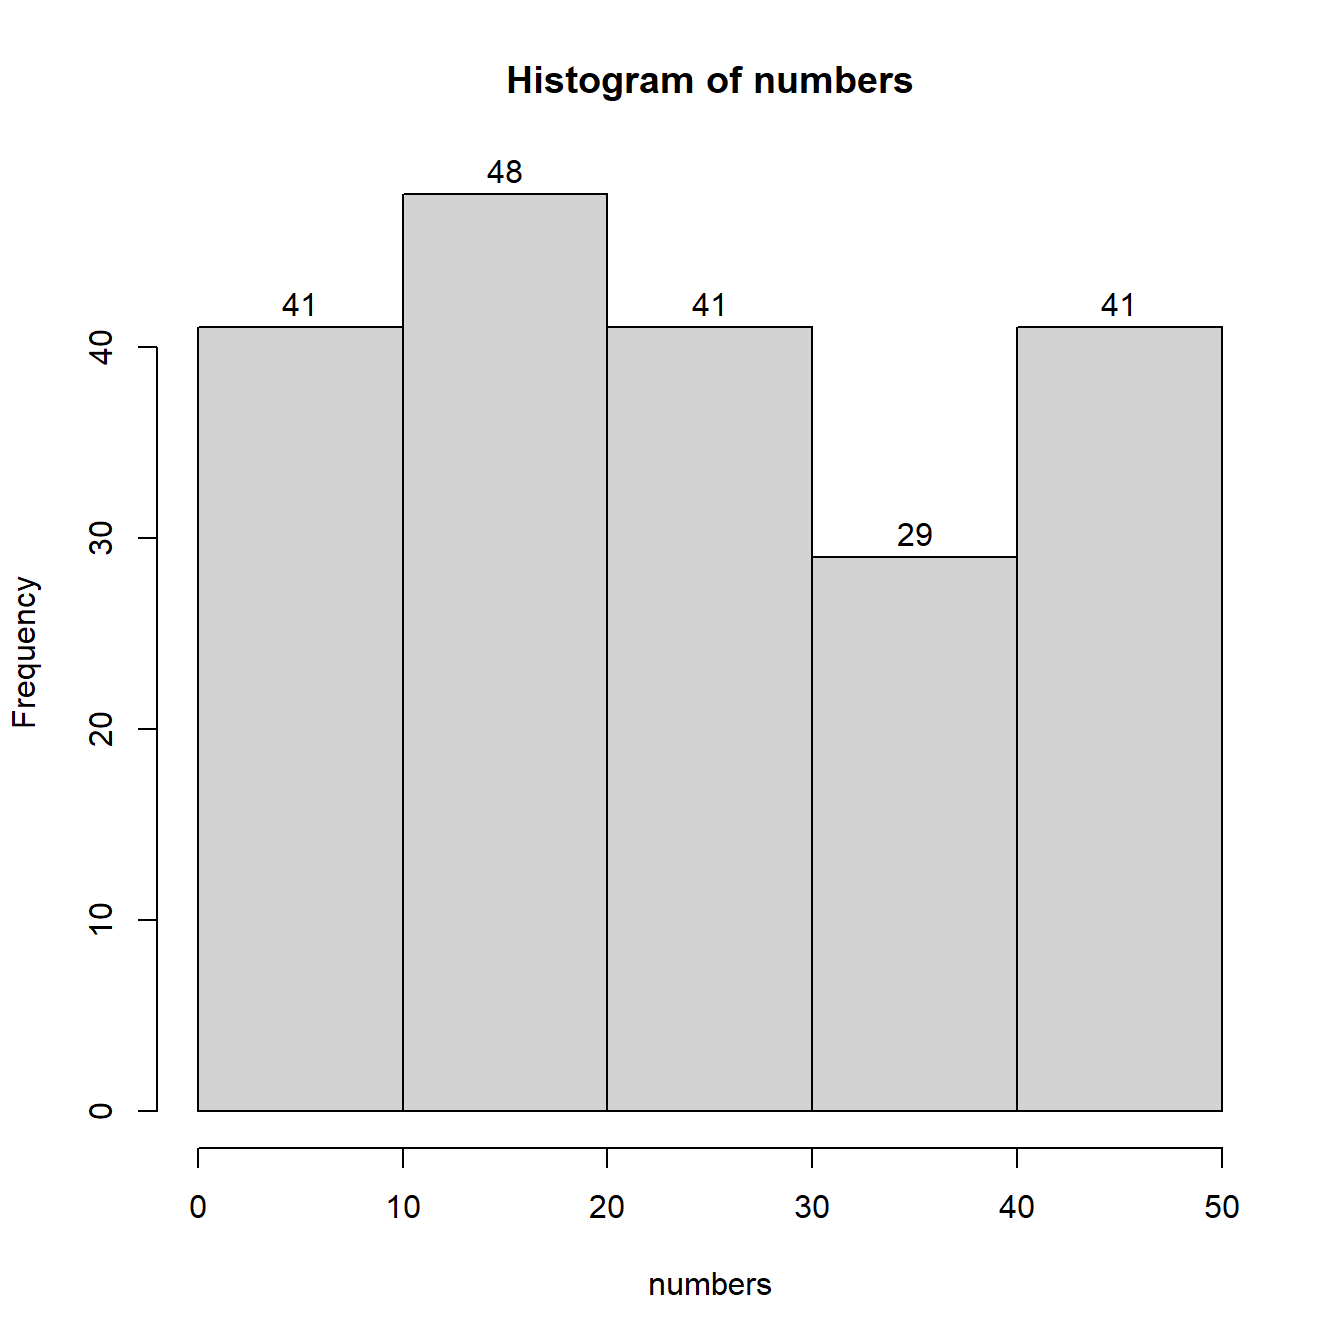
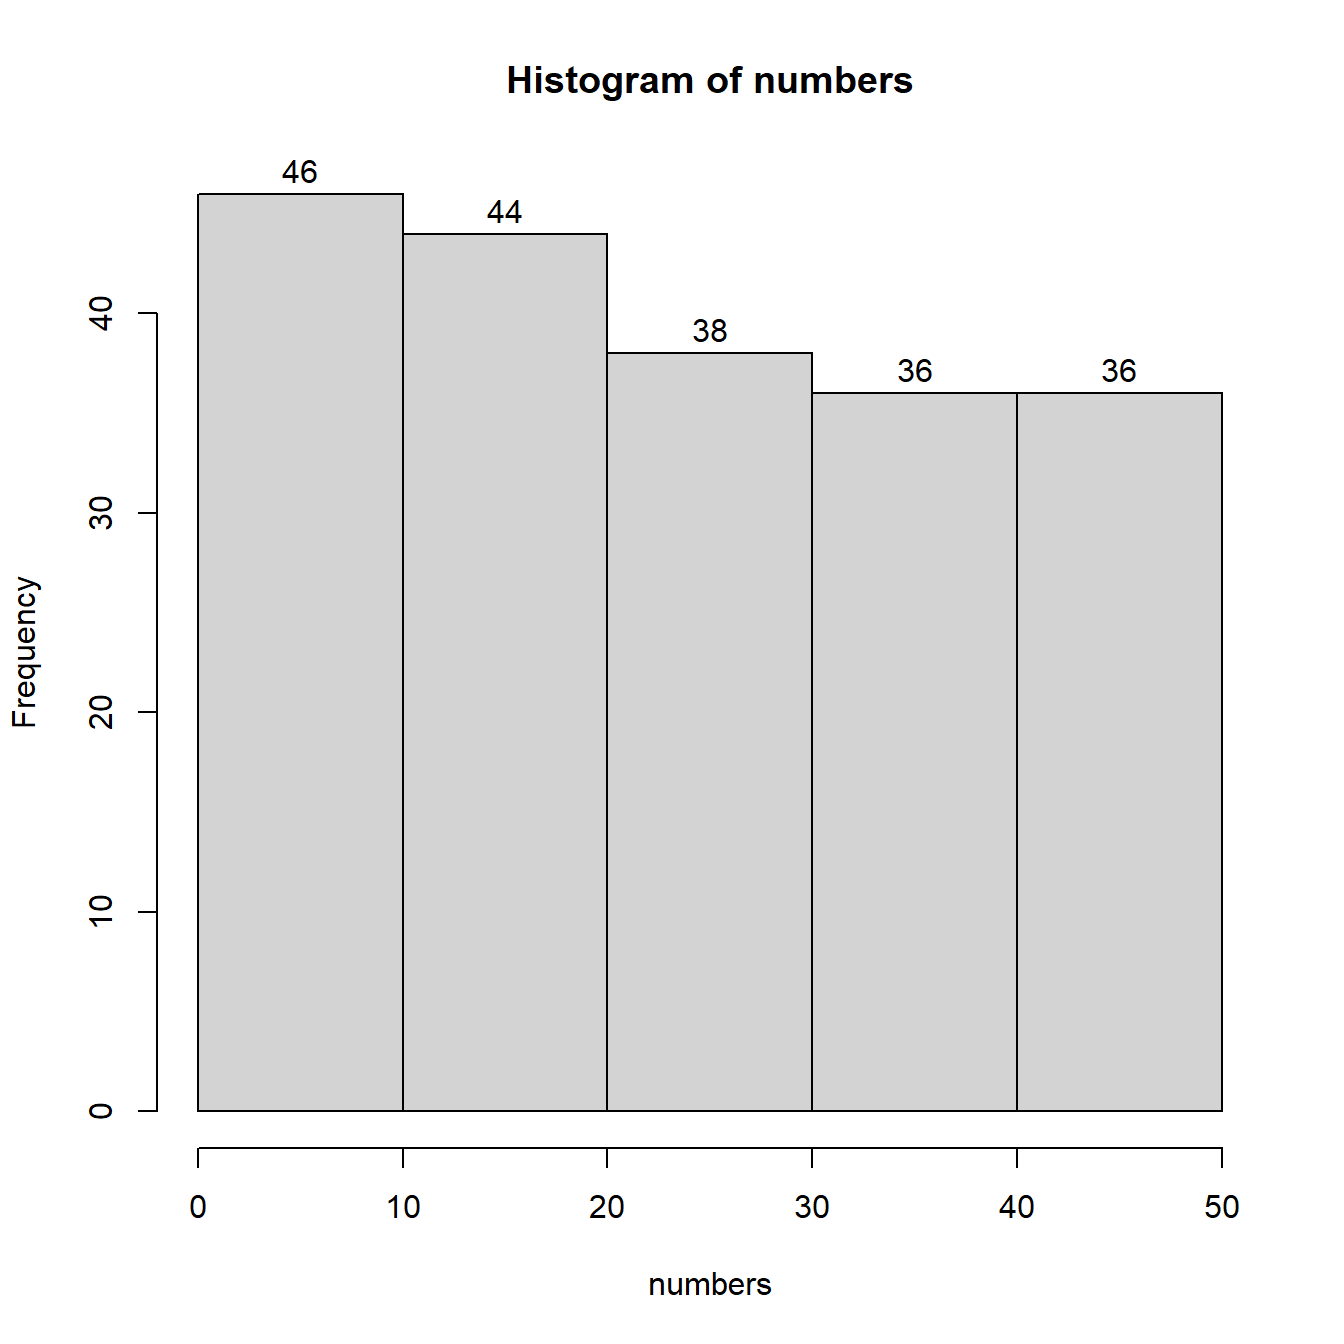
check first three chapters

diff --git a/docs/Week3.html b/docs/Week3.html
@@ -24,7 +24,7 @@
 <meta name="author" content="Lazaros Gonidis" />
 
 
-<meta name="date" content="2020-10-07" />
+<meta name="date" content="2020-10-16" />
 
   <meta name="viewport" content="width=device-width, initial-scale=1" />
   <meta name="apple-mobile-web-app-capable" content="yes" />
@@ -32,7 +32,7 @@
   
   
 <link rel="prev" href="Week2.html"/>
-
+<link rel="next" href="Week4.html"/>
 <script src="libs/header-attrs-2.3/header-attrs.js"></script>
 <script src="libs/jquery-2.2.3/jquery.min.js"></script>
 <link href="libs/gitbook-2.6.7/css/style.css" rel="stylesheet" />
@@ -154,6 +154,10 @@ code span.wa { color: #60a0b0; font-weight: bold; font-style: italic; } /* Warni
 <li class="chapter" data-level="3.4" data-path="Week3.html"><a href="Week3.html#frequency-tables-in-r-and-histograms"><i class="fa fa-check"></i><b>3.4</b> Frequency tables in R and Histograms</a></li>
 <li class="chapter" data-level="3.5" data-path="Week2.html"><a href="Week2.html#exercise"><i class="fa fa-check"></i><b>3.5</b> Exercise</a></li>
 </ul></li>
+<li class="chapter" data-level="4" data-path="Week4.html"><a href="Week4.html"><i class="fa fa-check"></i><b>4</b> Lab Session 3</a>
+<ul>
+<li class="chapter" data-level="4.1" data-path="Week2.html"><a href="Week2.html#learning-objectives"><i class="fa fa-check"></i><b>4.1</b> Learning Objectives</a></li>
+</ul></li>
 <li class="divider"></li>
 <li><a href="https://github.com/rstudio/bookdown" target="blank">Published with bookdown</a></li>
 
@@ -243,7 +247,7 @@ code span.wa { color: #60a0b0; font-weight: bold; font-style: italic; } /* Warni
 <span id="cb7-3"><a href="Week3.html#cb7-3"></a>numbers &lt;-<span class="st"> </span><span class="kw">sample.int</span>(<span class="dv">10</span>, <span class="dv">5</span>, <span class="dt">replace =</span> <span class="ot">TRUE</span>)</span>
 <span id="cb7-4"><a href="Week3.html#cb7-4"></a></span>
 <span id="cb7-5"><a href="Week3.html#cb7-5"></a>numbers</span></code></pre></div>
-<p>[1] 3 10 2 5 9</p>
+<p>[1] 5 10 6 9 1</p>
 <p>As mentioned above, I used a function called <strong>sample.int()</strong>. A <strong>function</strong> in R, is a mechanism that can perform a task. In this case our function can select an integer number randomly. A function also includes two brackets (). Within these brackets we can specify our own arguments in order to be clear what we want R to do for us when this function is used.</p>
 <p>Notice the number 10, this <strong>argument</strong> instructs our function that we want to pick randomly a number between 1 and 10.</p>
 <p>Notice the second number 5, this <strong>argument</strong> instructs our function to give 5 such numbers from 1 to 10.</p>
@@ -257,14 +261,14 @@ code span.wa { color: #60a0b0; font-weight: bold; font-style: italic; } /* Warni
 <span id="cb8-3"><a href="Week3.html#cb8-3"></a><span class="co"># See how my arguments have now changed.</span></span>
 <span id="cb8-4"><a href="Week3.html#cb8-4"></a>numbers &lt;-<span class="st"> </span><span class="kw">sample.int</span>(<span class="dv">50</span>, <span class="dv">200</span>, <span class="dt">replace =</span> <span class="ot">TRUE</span>)</span>
 <span id="cb8-5"><a href="Week3.html#cb8-5"></a>numbers</span></code></pre></div>
-<p>[1] 49 6 42 13 16 9 10 10 50 6 18 13 27 34 26 4 1 34 49 19 25 20 36 45 15
-[26] 46 38 17 11 20 20 7 20 39 44 29 22 47 21 13 17 16 31 33 41 3 30 43 48 39
-[51] 10 37 6 30 19 18 50 40 10 44 25 26 14 43 46 31 41 25 14 6 42 40 16 29 27
-[76] 28 32 13 2 22 30 49 16 26 47 11 3 26 3 28 5 16 18 13 47 35 24 20 28 43
-[101] 30 31 6 38 4 7 40 41 2 15 4 20 24 27 6 34 23 11 47 2 27 23 26 47 27
-[126] 21 43 45 45 13 24 36 13 40 8 47 19 43 11 37 10 4 50 27 28 29 4 36 12 37
-[151] 5 14 18 45 41 49 12 37 45 26 14 7 29 7 44 12 3 27 4 19 47 49 48 27 8
-[176] 41 30 8 32 49 17 41 3 7 35 15 31 17 9 36 14 31 7 17 21 17 16 7 25 5</p>
+<p>[1] 49 43 17 13 37 42 26 29 24 19 34 31 18 38 1 5 9 8 22 45 37 17 10 1 30
+[26] 11 12 11 1 26 28 42 26 12 48 44 17 37 37 9 9 50 20 37 49 15 48 50 43 38
+[51] 49 10 22 6 22 22 14 31 41 2 29 38 31 18 20 22 14 9 6 11 34 39 31 10 31
+[76] 18 36 2 29 9 47 50 11 25 2 21 29 42 15 16 37 8 3 15 33 27 36 29 9 29
+[101] 39 29 26 10 45 5 28 1 47 12 25 37 9 42 34 31 2 25 7 27 16 39 26 9 7
+[126] 50 45 16 16 35 49 15 21 32 2 39 47 42 49 8 4 5 3 14 8 3 4 12 49 9
+[151] 24 20 30 50 17 29 13 19 42 12 33 33 21 32 2 27 16 2 27 32 24 42 48 42 16
+[176] 7 1 13 35 13 13 10 16 37 1 35 18 23 19 19 23 43 31 14 28 4 50 49 41 5</p>
 <div class="sourceCode" id="cb9"><pre class="sourceCode r"><code class="sourceCode r"><span id="cb9-1"><a href="Week3.html#cb9-1"></a><span class="co"># Now we will call a new function to help us group our data.</span></span>
 <span id="cb9-2"><a href="Week3.html#cb9-2"></a><span class="co"># First put them in 5 groups. The numbers in c() declare the numbers that define each group.</span></span>
 <span id="cb9-3"><a href="Week3.html#cb9-3"></a></span>
@@ -273,7 +277,7 @@ code span.wa { color: #60a0b0; font-weight: bold; font-style: italic; } /* Warni
 <span id="cb9-6"><a href="Week3.html#cb9-6"></a><span class="co"># Now I can produce my frequency table using another function</span></span>
 <span id="cb9-7"><a href="Week3.html#cb9-7"></a><span class="kw">summary</span>(groups)</span></code></pre></div>
 <p>(0,10] (10,20] (20,30] (30,40] (40,50]
-41 48 41 29 41</p>
+46 44 38 36 36</p>
 <div class="sourceCode" id="cb10"><pre class="sourceCode r"><code class="sourceCode r"><span id="cb10-1"><a href="Week3.html#cb10-1"></a><span class="co"># We will now use a new function called hist that creates histograms.</span></span>
 <span id="cb10-2"><a href="Week3.html#cb10-2"></a><span class="co"># Note that this function has to work with the original numbers</span></span>
 <span id="cb10-3"><a href="Week3.html#cb10-3"></a><span class="co"># and not with the groups.</span></span>
@@ -300,8 +304,8 @@ code span.wa { color: #60a0b0; font-weight: bold; font-style: italic; } /* Warni
           </div>
         </div>
       </div>
-<a href="Week2.html" class="navigation navigation-prev navigation-unique" aria-label="Previous page"><i class="fa fa-angle-left"></i></a>
-
+<a href="Week2.html" class="navigation navigation-prev " aria-label="Previous page"><i class="fa fa-angle-left"></i></a>
+<a href="Week4.html" class="navigation navigation-next " aria-label="Next page"><i class="fa fa-angle-right"></i></a>
     </div>
   </div>
 <script src="libs/gitbook-2.6.7/js/app.min.js"></script>

diff --git a/docs/index.html b/docs/index.html
@@ -24,7 +24,7 @@
 <meta name="author" content="Lazaros Gonidis" />
 
 
-<meta name="date" content="2020-10-03" />
+<meta name="date" content="2020-10-16" />
 
   <meta name="viewport" content="width=device-width, initial-scale=1" />
   <meta name="apple-mobile-web-app-capable" content="yes" />
@@ -83,6 +83,18 @@
 <li class="chapter" data-level="2.7" data-path="Week2.html"><a href="Week2.html#scripts"><i class="fa fa-check"></i><b>2.7</b> Scripts</a></li>
 <li class="chapter" data-level="2.8" data-path="Week2.html"><a href="Week2.html#exercise"><i class="fa fa-check"></i><b>2.8</b> Exercise</a></li>
 </ul></li>
+<li class="chapter" data-level="3" data-path="Week3.html"><a href="Week3.html"><i class="fa fa-check"></i><b>3</b> Lab Session 2</a>
+<ul>
+<li class="chapter" data-level="3.1" data-path="Week2.html"><a href="Week2.html#learning-objectives"><i class="fa fa-check"></i><b>3.1</b> Learning Objectives</a></li>
+<li class="chapter" data-level="3.2" data-path="Week3.html"><a href="Week3.html#vectors"><i class="fa fa-check"></i><b>3.2</b> Vectors</a></li>
+<li class="chapter" data-level="3.3" data-path="Week3.html"><a href="Week3.html#creating-vectors-with-random-numbers"><i class="fa fa-check"></i><b>3.3</b> Creating vectors with random numbers</a></li>
+<li class="chapter" data-level="3.4" data-path="Week3.html"><a href="Week3.html#frequency-tables-in-r-and-histograms"><i class="fa fa-check"></i><b>3.4</b> Frequency tables in R and Histograms</a></li>
+<li class="chapter" data-level="3.5" data-path="Week2.html"><a href="Week2.html#exercise"><i class="fa fa-check"></i><b>3.5</b> Exercise</a></li>
+</ul></li>
+<li class="chapter" data-level="4" data-path="Week4.html"><a href="Week4.html"><i class="fa fa-check"></i><b>4</b> Lab Session 3</a>
+<ul>
+<li class="chapter" data-level="4.1" data-path="Week2.html"><a href="Week2.html#learning-objectives"><i class="fa fa-check"></i><b>4.1</b> Learning Objectives</a></li>
+</ul></li>
 <li class="divider"></li>
 <li><a href="https://github.com/rstudio/bookdown" target="blank">Published with bookdown</a></li>
 
@@ -106,7 +118,7 @@
 <div id="header">
 <h1 class="title">The Course Book for SP300 Kent Psychology Statistics</h1>
 <p class="author"><em>Lazaros Gonidis</em></p>
-<p class="date"><em>2020-10-03</em></p>
+<p class="date"><em>2020-10-16</em></p>
 </div>
 <div id="prerequisites" class="section level1" number="1">
 <h1><span class="header-section-number">Week 1</span> Prerequisites</h1>

diff --git a/docs/Week2.html b/docs/Week2.html
@@ -24,7 +24,7 @@
 <meta name="author" content="Lazaros Gonidis" />
 
 
-<meta name="date" content="2020-10-06" />
+<meta name="date" content="2020-10-16" />
 
   <meta name="viewport" content="width=device-width, initial-scale=1" />
   <meta name="apple-mobile-web-app-capable" content="yes" />
@@ -149,6 +149,14 @@ code span.wa { color: #60a0b0; font-weight: bold; font-style: italic; } /* Warni
 <li class="chapter" data-level="3" data-path="Week3.html"><a href="Week3.html"><i class="fa fa-check"></i><b>3</b> Lab Session 2</a>
 <ul>
 <li class="chapter" data-level="3.1" data-path="Week2.html"><a href="Week2.html#learning-objectives"><i class="fa fa-check"></i><b>3.1</b> Learning Objectives</a></li>
+<li class="chapter" data-level="3.2" data-path="Week3.html"><a href="Week3.html#vectors"><i class="fa fa-check"></i><b>3.2</b> Vectors</a></li>
+<li class="chapter" data-level="3.3" data-path="Week3.html"><a href="Week3.html#creating-vectors-with-random-numbers"><i class="fa fa-check"></i><b>3.3</b> Creating vectors with random numbers</a></li>
+<li class="chapter" data-level="3.4" data-path="Week3.html"><a href="Week3.html#frequency-tables-in-r-and-histograms"><i class="fa fa-check"></i><b>3.4</b> Frequency tables in R and Histograms</a></li>
+<li class="chapter" data-level="3.5" data-path="Week2.html"><a href="Week2.html#exercise"><i class="fa fa-check"></i><b>3.5</b> Exercise</a></li>
+</ul></li>
+<li class="chapter" data-level="4" data-path="Week4.html"><a href="Week4.html"><i class="fa fa-check"></i><b>4</b> Lab Session 3</a>
+<ul>
+<li class="chapter" data-level="4.1" data-path="Week2.html"><a href="Week2.html#learning-objectives"><i class="fa fa-check"></i><b>4.1</b> Learning Objectives</a></li>
 </ul></li>
 <li class="divider"></li>
 <li><a href="https://github.com/rstudio/bookdown" target="blank">Published with bookdown</a></li>
